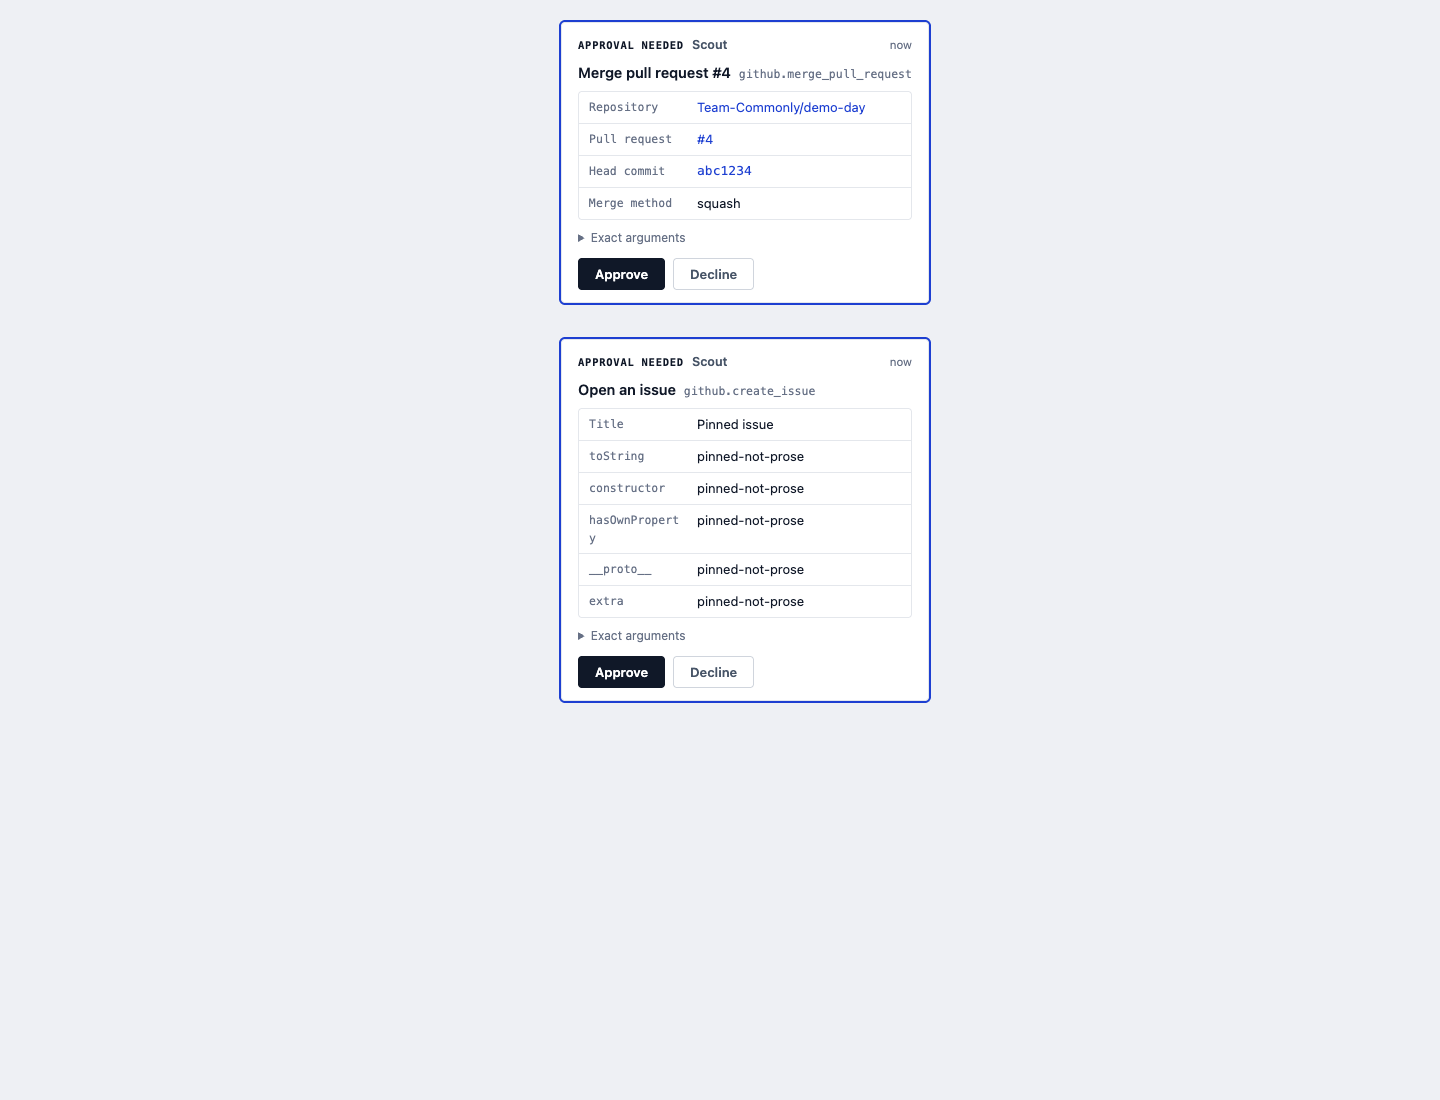
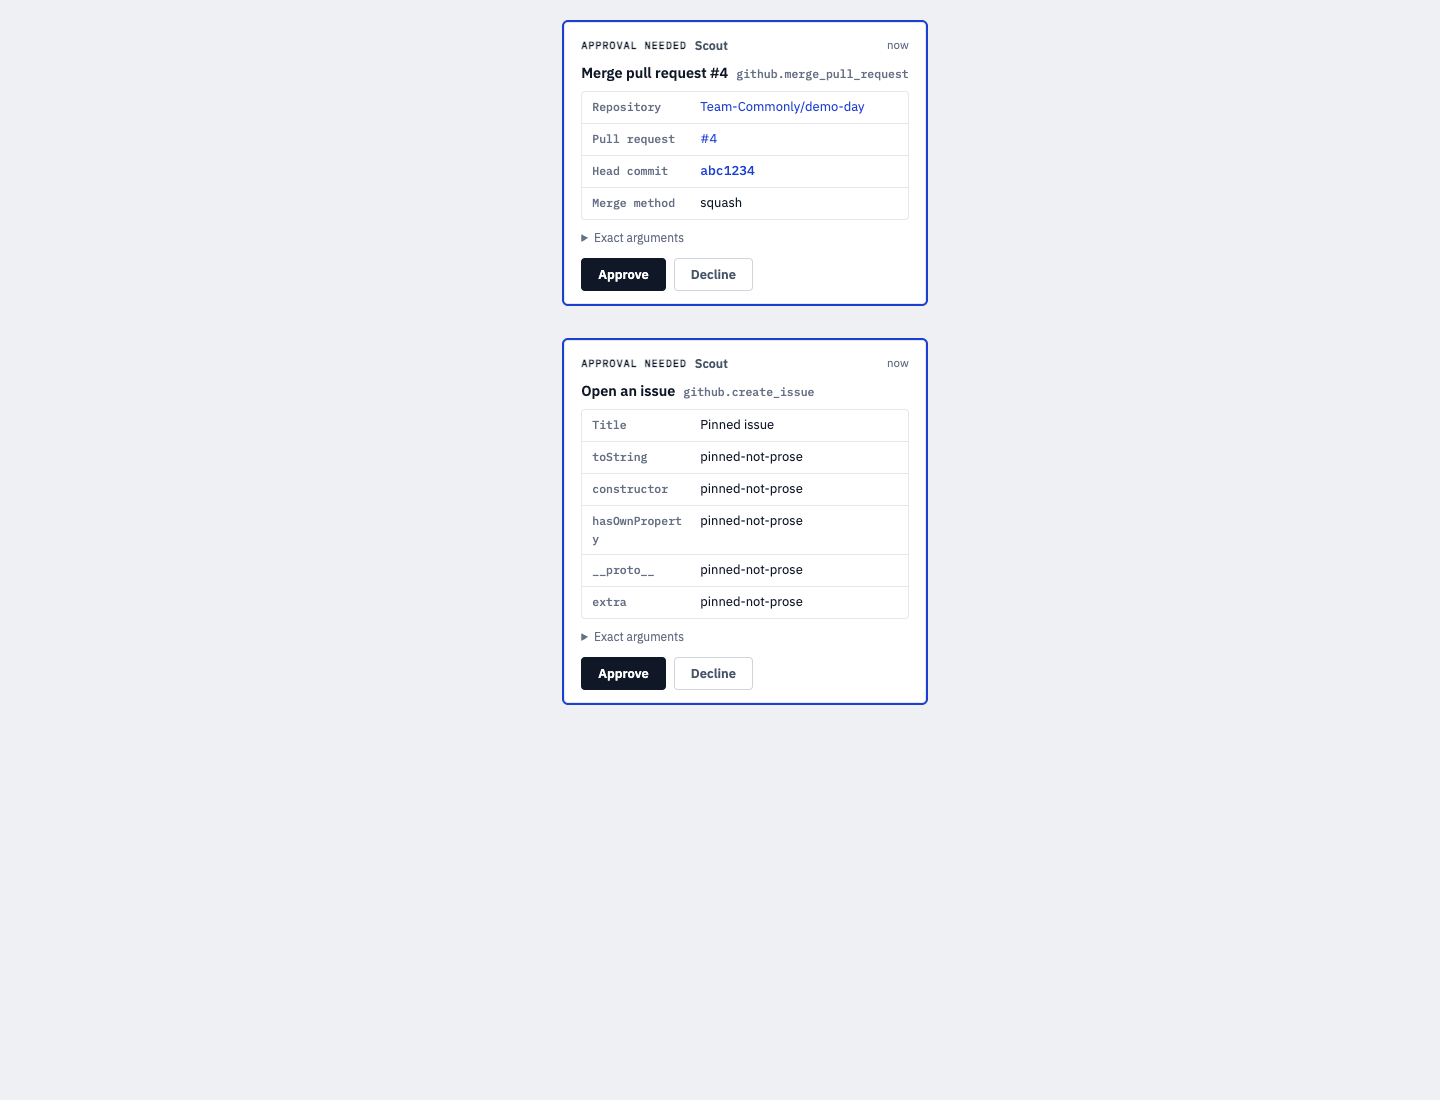
docs(ui): refresh approval proof with verified local fonts
Agent-Model: codex/gpt-6.1-sol/medium

Changed region(s): [[0.375, 0.3091, 0.6562, 0.6491], [0.375, 0.0309, 0.6562, 0.2782], [0.5, 0.1545, 0.5312, 0.1855]]

diff --git a/docs/audits/pr-2381/README.md b/docs/audits/pr-2381/README.md
@@ -25,8 +25,10 @@ The en/zh-CN captures at 1440 and 390 show all inherited-key rows. Opening the
 second card's disclosure preserves every JSON own key. Both consent controls
 remain usable, with zero page errors, zero POSTs and no horizontal overflow.
 `browser-proof.json` records the measurements. Existing base button heights
-remain 32px in en and 34px in zh-CN, including at 390; this repair does not
+remain 33px in en and 34px in zh-CN, including at 390; this repair does not
 claim a new mobile target-size gate.
 
 These are local component fixtures, not a deployed consent flow or a vendor
 execution. Current-head code/security and UX re-gates remain required.
+
+The refreshed proof verifies IBM Plex Sans/Mono loaded and records zero HTTP error responses. The local server explicitly allowed the real dependency directory behind the worktree symlink; earlier captures without loaded fonts are superseded.
